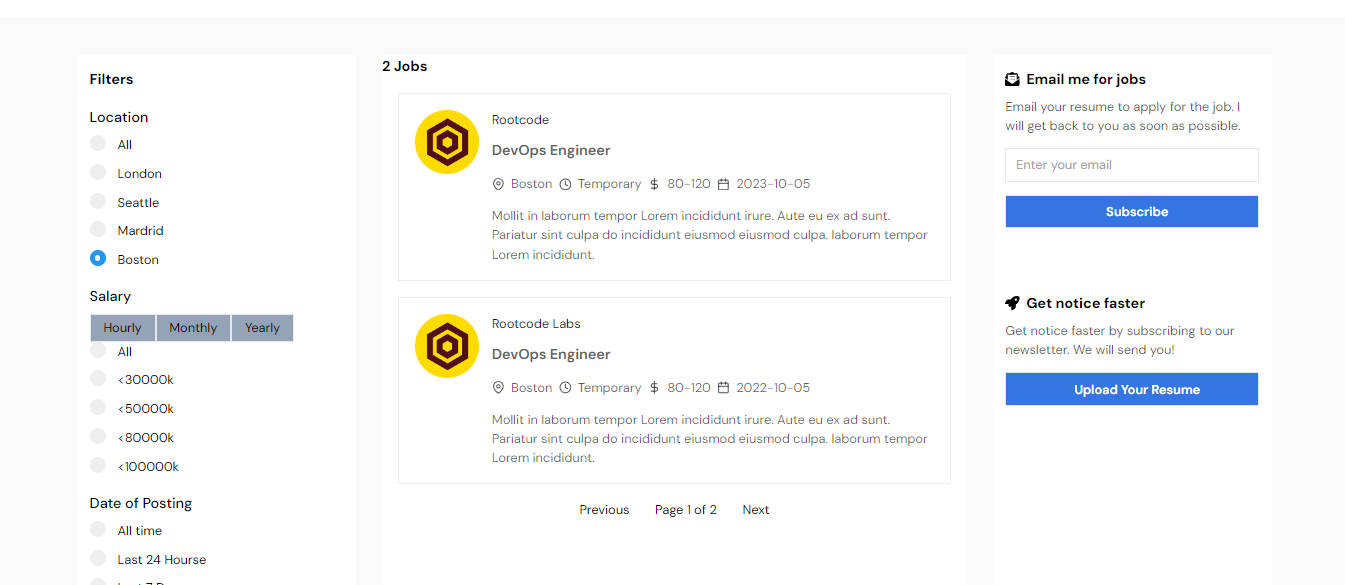
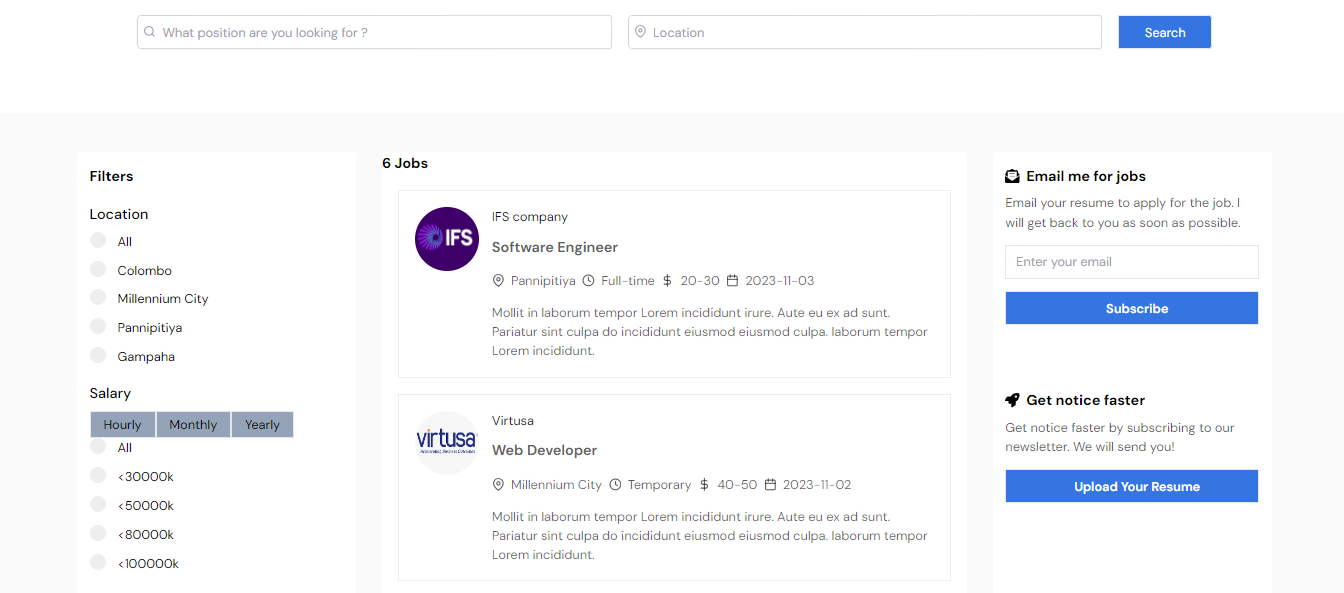
update new UI

diff --git a/src/components/Services/index.jsx b/src/components/Services/index.jsx
@@ -1,16 +1,16 @@
 const Services = () => {
 	const servicesList = [
 		{
-			title: "Service",
-			desc: "Lorem, ipsum dolor sit amet consectetur adipisicing elit. Placeat eveniet nisi aspernatur eum quod.",
+			title: "Resume Writing Service",
+			desc: "Are you struggling to create a compelling resume that highlights your skills and experiences effectively? Our professional resume writing service is here to help. ",
 		},
 		{
-			title: "Service",
-			desc: "Lorem, ipsum dolor sit amet consectetur adipisicing elit. Placeat eveniet nisi aspernatur eum quod.",
+			title: "Interview Coaching Service",
+			desc: "Navigating the interview process can be daunting, but with our interview coaching service, you'll feel confident and prepared to impress potential employers.",
 		},
 		{
-			title: "Service",
-			desc: "Lorem, ipsum dolor sit amet consectetur adipisicing elit. Placeat eveniet nisi aspernatur eum quod.",
+			title: "Career Counseling Service",
+			desc: "Unsure about your career path or feeling stuck in your current job? Our career counseling service offers personalized guidance and support to help you navigate your professional journey.",
 		},
 	];
 	return (
@@ -18,8 +18,7 @@ const Services = () => {
 			<div className="flex flex-col gap-1 text-center">
 				<h1 className="font-semibold text-5xl text-indigo-500"><span className="text-black">Our</span> Services</h1>
 				<p className="text-[18px] text-gray-600 max-w-[500px] leading-7">
-					Lorem, ipsum dolor sit amet consectetur adipisicing elit. Placeat eveniet nisi
-					aspernatur eum quod.
+					Elevate your job search with our professionaljob-finding service.
 				</p>
 			</div>
 			<div className="flex md:w-[80%] my-0 mx-auto w-full items-center gap-8 md:flex-row flex-col">

diff --git a/src/SideBar/Location.jsx b/src/SideBar/Location.jsx
@@ -17,26 +17,26 @@ function Location({ handleChange }) {
         </label>
         <InputField
           handleChange={handleChange}
-          value="London"
-          title="London"
+          value="Colombo"
+          title="Colombo"
           name="location"
         />
         <InputField
           handleChange={handleChange}
-          value="Seattle"
-          title="Seattle"
+          value="Millennium City"
+          title="Millennium City"
           name="location"
         />
         <InputField
           handleChange={handleChange}
-          value="Mardrid"
-          title="Mardrid"
+          value="Pannipitiya"
+          title="Pannipitiya"
           name="location"
         />
         <InputField
           handleChange={handleChange}
-          value="boston"
-          title="Boston"
+          value="Gampaha"
+          title="Gampaha"
           name="location"
         />
       </div>

diff --git a/src/components/Hero/index.jsx b/src/components/Hero/index.jsx
@@ -10,9 +10,7 @@ const Hero = () => {
 			<div className="flex flex-col gap-8 z-50">
 				<span className="text-5xl font-semibold text-indigo-100"> Welcome to <span className='text-yellow-300'>NiceJob</span></span>
 				<p className="text-gray-200 max-w-[600px] leading-7">
-					Lorem ipsum dolor sit amet, consectetur adipisicing elit. Unde dolore, ab
-					consequuntur amet dolores itaque deserunt optio dicta odio sequi, ipsum debitis
-					tempora quo quam? Et aliquid quibusdam dolor amet?
+				Our app revolutionizes the job search process by leveraging advanced algorithms to match you with the perfect opportunities. Whether you're a seasoned professional or just starting your career journey, our platform caters to individuals of all backgrounds and experiences.
 				</p>
 				<button className="text-white rounded-full bg-indigo-500 w-40 p-3">
 					Find Jobs Now
